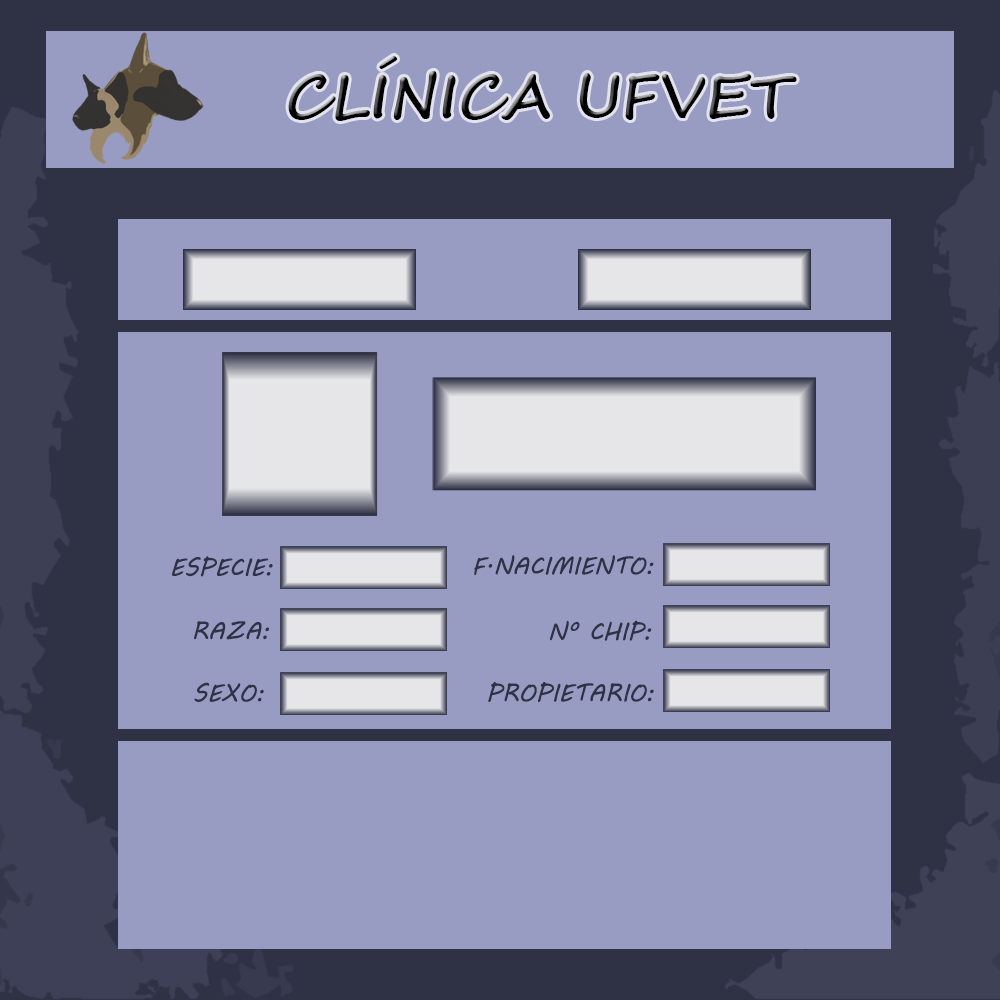
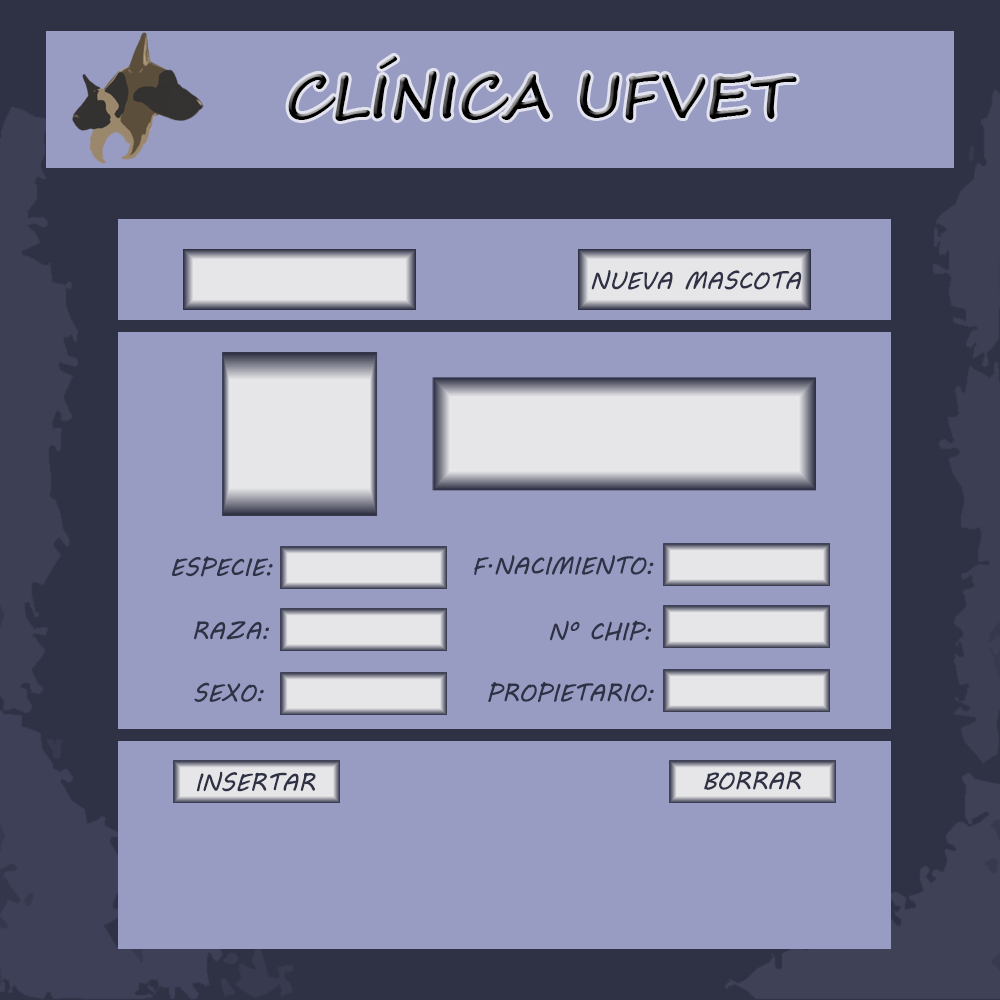
Mejorado el diseño con nombres añadidos a los botones del interfaz gráfico. Ahora los botones dicen la función que ejecutan.

Changed region(s): [[0.651, 0.744, 0.837, 0.806], [0.155, 0.744, 0.341, 0.806], [0.589, 0.248, 0.806, 0.31]]

diff --git a/src/codigo/VentanaPrincipal.java b/src/codigo/VentanaPrincipal.java
@@ -82,6 +82,8 @@ public class VentanaPrincipal extends javax.swing.JFrame {
 	}
     }
     
+    //Inserción de datos de cliente en la BBDD.
+    
     public void insertaDatos(String dni, String nombre, String apellido, int telefono, String direccion, int postal){
       try {
 	    Class.forName("com.mysql.jdbc.Driver");
@@ -98,6 +100,8 @@ public class VentanaPrincipal extends javax.swing.JFrame {
 	}
     
     }
+    
+    //Inserción de datos de mascota en la BBDD.
     
     public void insertaDatosM(int chip, String nombreM, int sexo, String especie, String raza, Date nacimiento, String cliente){
          try {
@@ -324,7 +328,7 @@ public class VentanaPrincipal extends javax.swing.JFrame {
 
         jScrollPane3.setViewportView(jPanel4);
 
-        ventanaMascotaNueva.getContentPane().add(jScrollPane3, new org.netbeans.lib.awtextra.AbsoluteConstraints(0, 0, -1, 520));
+        ventanaMascotaNueva.getContentPane().add(jScrollPane3, new org.netbeans.lib.awtextra.AbsoluteConstraints(0, 0, -1, 610));
 
         ventanaClienteNuevo.getContentPane().setLayout(new org.netbeans.lib.awtextra.AbsoluteLayout());
 
@@ -401,7 +405,7 @@ public class VentanaPrincipal extends javax.swing.JFrame {
         ));
         jScrollPane1.setViewportView(jTable1);
 
-        jPanel1.add(jScrollPane1, new org.netbeans.lib.awtextra.AbsoluteConstraints(270, 750, 510, 110));
+        jPanel1.add(jScrollPane1, new org.netbeans.lib.awtextra.AbsoluteConstraints(250, 800, 510, 110));
 
         huella.setIcon(new javax.swing.ImageIcon(getClass().getResource("/imagenes/huella.png"))); // NOI18N
         huella.setText("jLabel22");
